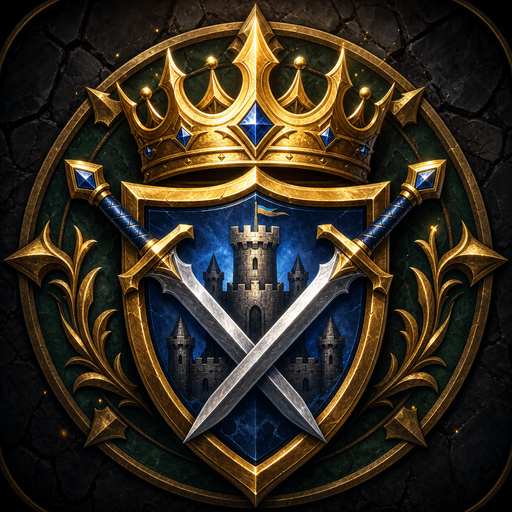
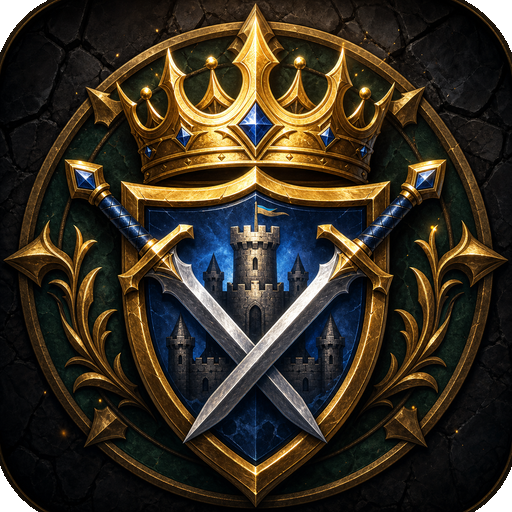
chore(release): 1.1.3 — admin login fix & Ko-fi prompt timing

diff --git a/src/app/dashboard/SupportKofi.tsx b/src/app/dashboard/SupportKofi.tsx
@@ -28,7 +28,7 @@ interface SupportPromptState {
 }
 
 /**
- * Persisted, per-user nudge that opens the Ko-fi prompt the second time a player
+ * Persisted, per-user nudge that opens the Ko-fi prompt the third time a player
  * signs in, then never again. A "login" is detected by a change of the Supabase
  * `last_sign_in_at` timestamp, which updates on each real sign-in but stays stable
  * across token refreshes and dashboard re-mounts — so logging out and back in
@@ -63,7 +63,7 @@ export function useSupportPrompt() {
       }
     }
 
-    if (!state.shown && state.logins >= 2) {
+    if (!state.shown && state.logins >= 3) {
       // eslint-disable-next-line react-hooks/set-state-in-effect
       setShouldShow(true);
     }

diff --git a/src/lib/auth/seedAdmin.ts b/src/lib/auth/seedAdmin.ts
@@ -56,7 +56,7 @@ export async function seedAdminIfMissing(): Promise<"created" | "exists" | "skip
   if (error) throw error;
 
   const { error: profileError } = await supabase.from("profiles").upsert(
-    { id: data.user.id, email, name, role: "admin", must_change_password: true },
+    { id: data.user.id, email, name, role: "admin", must_change_password: true, email_confirmed: true },
     { onConflict: "id" },
   );
   if (profileError) throw profileError;

diff --git a/CHANGELOG.md b/CHANGELOG.md
@@ -5,6 +5,23 @@ Toutes les modifications notables de **My Heroes** sont documentées dans ce fic
 Le format s'inspire de [Keep a Changelog](https://keepachangelog.com/fr/1.0.0/),
 et le projet suit le [versionnage sémantique](https://semver.org/lang/fr/).
 
+## [1.1.3] - 2026-06-09
+
+Correctif de connexion du compte admin et ajustement de l'invitation au soutien.
+
+### Corrigé
+
+- **Compte admin par défaut** — sur une base vierge, le compte admin créé
+  automatiquement n'était pas marqué comme email confirmé et restait bloqué à la
+  connexion (« Confirmez votre adresse email ») même lorsque l'envoi SMTP est
+  désactivé. Il est désormais créé directement confirmé.
+
+### Modifié
+
+- **Invitation au soutien (Ko-fi)** — la fenêtre de soutien s'affiche désormais à
+  la troisième connexion (au lieu de la deuxième), puis plus jamais.
+- **Icône de l'application** — nouvelle icône aux couleurs du blason My Heroes.
+
 ## [1.1.2] - 2026-06-09
 
 Emails de confirmation d'inscription, de bienvenue et signalement de bug.
